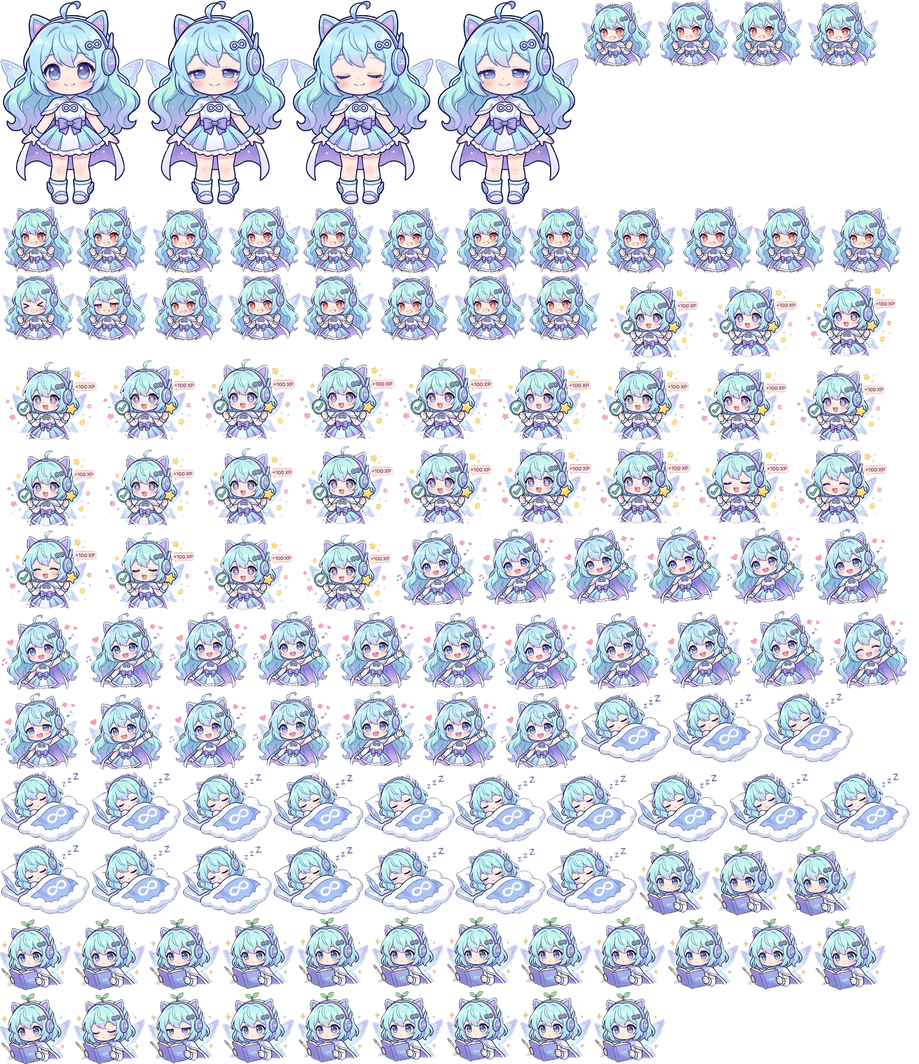
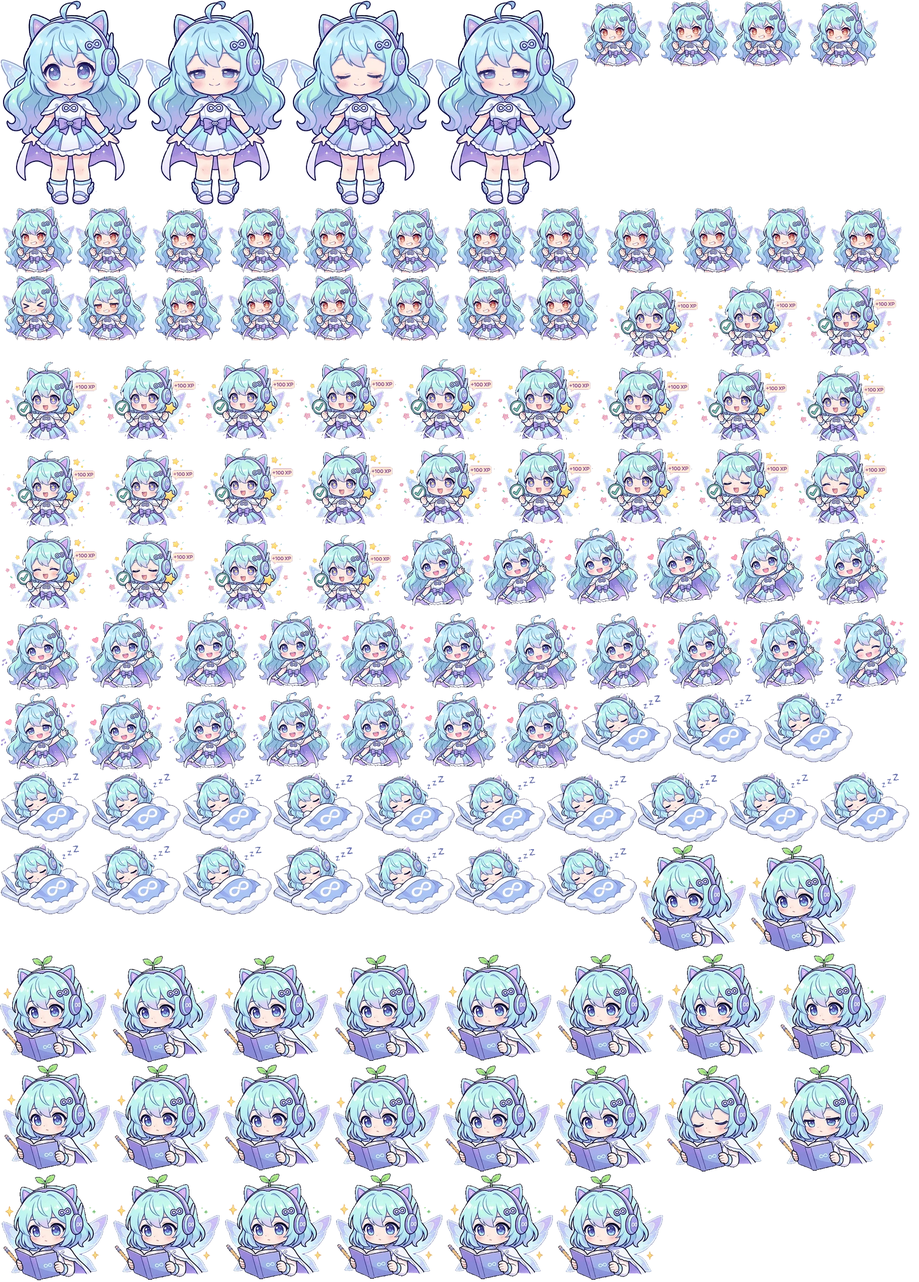
Reading her book is drawn sharper
study.gif is the redrawn 360 px version (was 240 px); the atlas and its
frame table are rebuilt, and her head square is scaled to match.

diff --git a/app/lib/widgets/avatar_atlas.dart b/app/lib/widgets/avatar_atlas.dart
@@ -174,35 +174,35 @@ const AtlasClip sleepClip = AtlasClip(
   ],
 );
 
-// study.gif: 48 frames, box (47, 38, 210, 201), 24 kept.
+// study.gif: 48 frames, box (70, 58, 315, 301), 24 kept.
 const AtlasClip studyClip = AtlasClip(
-  width: 163,
-  height: 163,
-  head: Rect.fromLTWH(13.5, 22.5, 115, 115),
+  width: 245,
+  height: 243,
+  head: Rect.fromLTWH(21.0, 33.0, 172, 172),
   frames: [
-    AtlasFrame(Rect.fromLTWH(1421, 1880, 163, 163), 120, 0),
-    AtlasFrame(Rect.fromLTWH(1586, 1880, 163, 163), 120, 2),
-    AtlasFrame(Rect.fromLTWH(1751, 1880, 163, 163), 120, 4),
-    AtlasFrame(Rect.fromLTWH(0, 2045, 163, 163), 120, 6),
-    AtlasFrame(Rect.fromLTWH(165, 2045, 163, 163), 120, 8),
-    AtlasFrame(Rect.fromLTWH(330, 2045, 163, 163), 120, 10),
-    AtlasFrame(Rect.fromLTWH(495, 2045, 163, 163), 120, 12),
-    AtlasFrame(Rect.fromLTWH(660, 2045, 163, 163), 120, 14),
-    AtlasFrame(Rect.fromLTWH(825, 2045, 163, 163), 120, 16),
-    AtlasFrame(Rect.fromLTWH(990, 2045, 163, 163), 120, 18),
-    AtlasFrame(Rect.fromLTWH(1155, 2045, 163, 163), 120, 20),
-    AtlasFrame(Rect.fromLTWH(1320, 2045, 163, 163), 120, 22),
-    AtlasFrame(Rect.fromLTWH(1485, 2045, 163, 163), 120, 24),
-    AtlasFrame(Rect.fromLTWH(1650, 2045, 163, 163), 120, 26),
-    AtlasFrame(Rect.fromLTWH(1815, 2045, 163, 163), 120, 28),
-    AtlasFrame(Rect.fromLTWH(0, 2210, 163, 163), 120, 30),
-    AtlasFrame(Rect.fromLTWH(165, 2210, 163, 163), 120, 32),
-    AtlasFrame(Rect.fromLTWH(330, 2210, 163, 163), 120, 34),
-    AtlasFrame(Rect.fromLTWH(495, 2210, 163, 163), 120, 36),
-    AtlasFrame(Rect.fromLTWH(660, 2210, 163, 163), 120, 38),
-    AtlasFrame(Rect.fromLTWH(825, 2210, 163, 163), 120, 40),
-    AtlasFrame(Rect.fromLTWH(990, 2210, 163, 163), 120, 42),
-    AtlasFrame(Rect.fromLTWH(1155, 2210, 163, 163), 120, 44),
-    AtlasFrame(Rect.fromLTWH(1320, 2210, 163, 163), 120, 46),
+    AtlasFrame(Rect.fromLTWH(1421, 1880, 245, 243), 120, 0),
+    AtlasFrame(Rect.fromLTWH(1668, 1880, 245, 243), 120, 2),
+    AtlasFrame(Rect.fromLTWH(0, 2125, 245, 243), 120, 4),
+    AtlasFrame(Rect.fromLTWH(247, 2125, 245, 243), 120, 6),
+    AtlasFrame(Rect.fromLTWH(494, 2125, 245, 243), 120, 8),
+    AtlasFrame(Rect.fromLTWH(741, 2125, 245, 243), 120, 10),
+    AtlasFrame(Rect.fromLTWH(988, 2125, 245, 243), 120, 12),
+    AtlasFrame(Rect.fromLTWH(1235, 2125, 245, 243), 120, 14),
+    AtlasFrame(Rect.fromLTWH(1482, 2125, 245, 243), 120, 16),
+    AtlasFrame(Rect.fromLTWH(1729, 2125, 245, 243), 120, 18),
+    AtlasFrame(Rect.fromLTWH(0, 2370, 245, 243), 120, 20),
+    AtlasFrame(Rect.fromLTWH(247, 2370, 245, 243), 120, 22),
+    AtlasFrame(Rect.fromLTWH(494, 2370, 245, 243), 120, 24),
+    AtlasFrame(Rect.fromLTWH(741, 2370, 245, 243), 120, 26),
+    AtlasFrame(Rect.fromLTWH(988, 2370, 245, 243), 120, 28),
+    AtlasFrame(Rect.fromLTWH(1235, 2370, 245, 243), 120, 30),
+    AtlasFrame(Rect.fromLTWH(1482, 2370, 245, 243), 120, 32),
+    AtlasFrame(Rect.fromLTWH(1729, 2370, 245, 243), 120, 34),
+    AtlasFrame(Rect.fromLTWH(0, 2615, 245, 243), 120, 36),
+    AtlasFrame(Rect.fromLTWH(247, 2615, 245, 243), 120, 38),
+    AtlasFrame(Rect.fromLTWH(494, 2615, 245, 243), 120, 40),
+    AtlasFrame(Rect.fromLTWH(741, 2615, 245, 243), 120, 42),
+    AtlasFrame(Rect.fromLTWH(988, 2615, 245, 243), 120, 44),
+    AtlasFrame(Rect.fromLTWH(1235, 2615, 245, 243), 120, 46),
   ],
 );

diff --git a/app/tool/build_avatar.py b/app/tool/build_avatar.py
@@ -30,7 +30,7 @@ CLIPS = {
     "success": (1, 113, 112, 115),  # check mark, +100 XP
     "wave": (2, 118, 110, 115),  # waves hello
     "sleep": (2, 100, 100, 120),  # asleep on a cloud
-    "study": (2, 118, 118, 115),  # reads her book
+    "study": (2, 177, 177, 172),  # reads her book
 }
 
 
